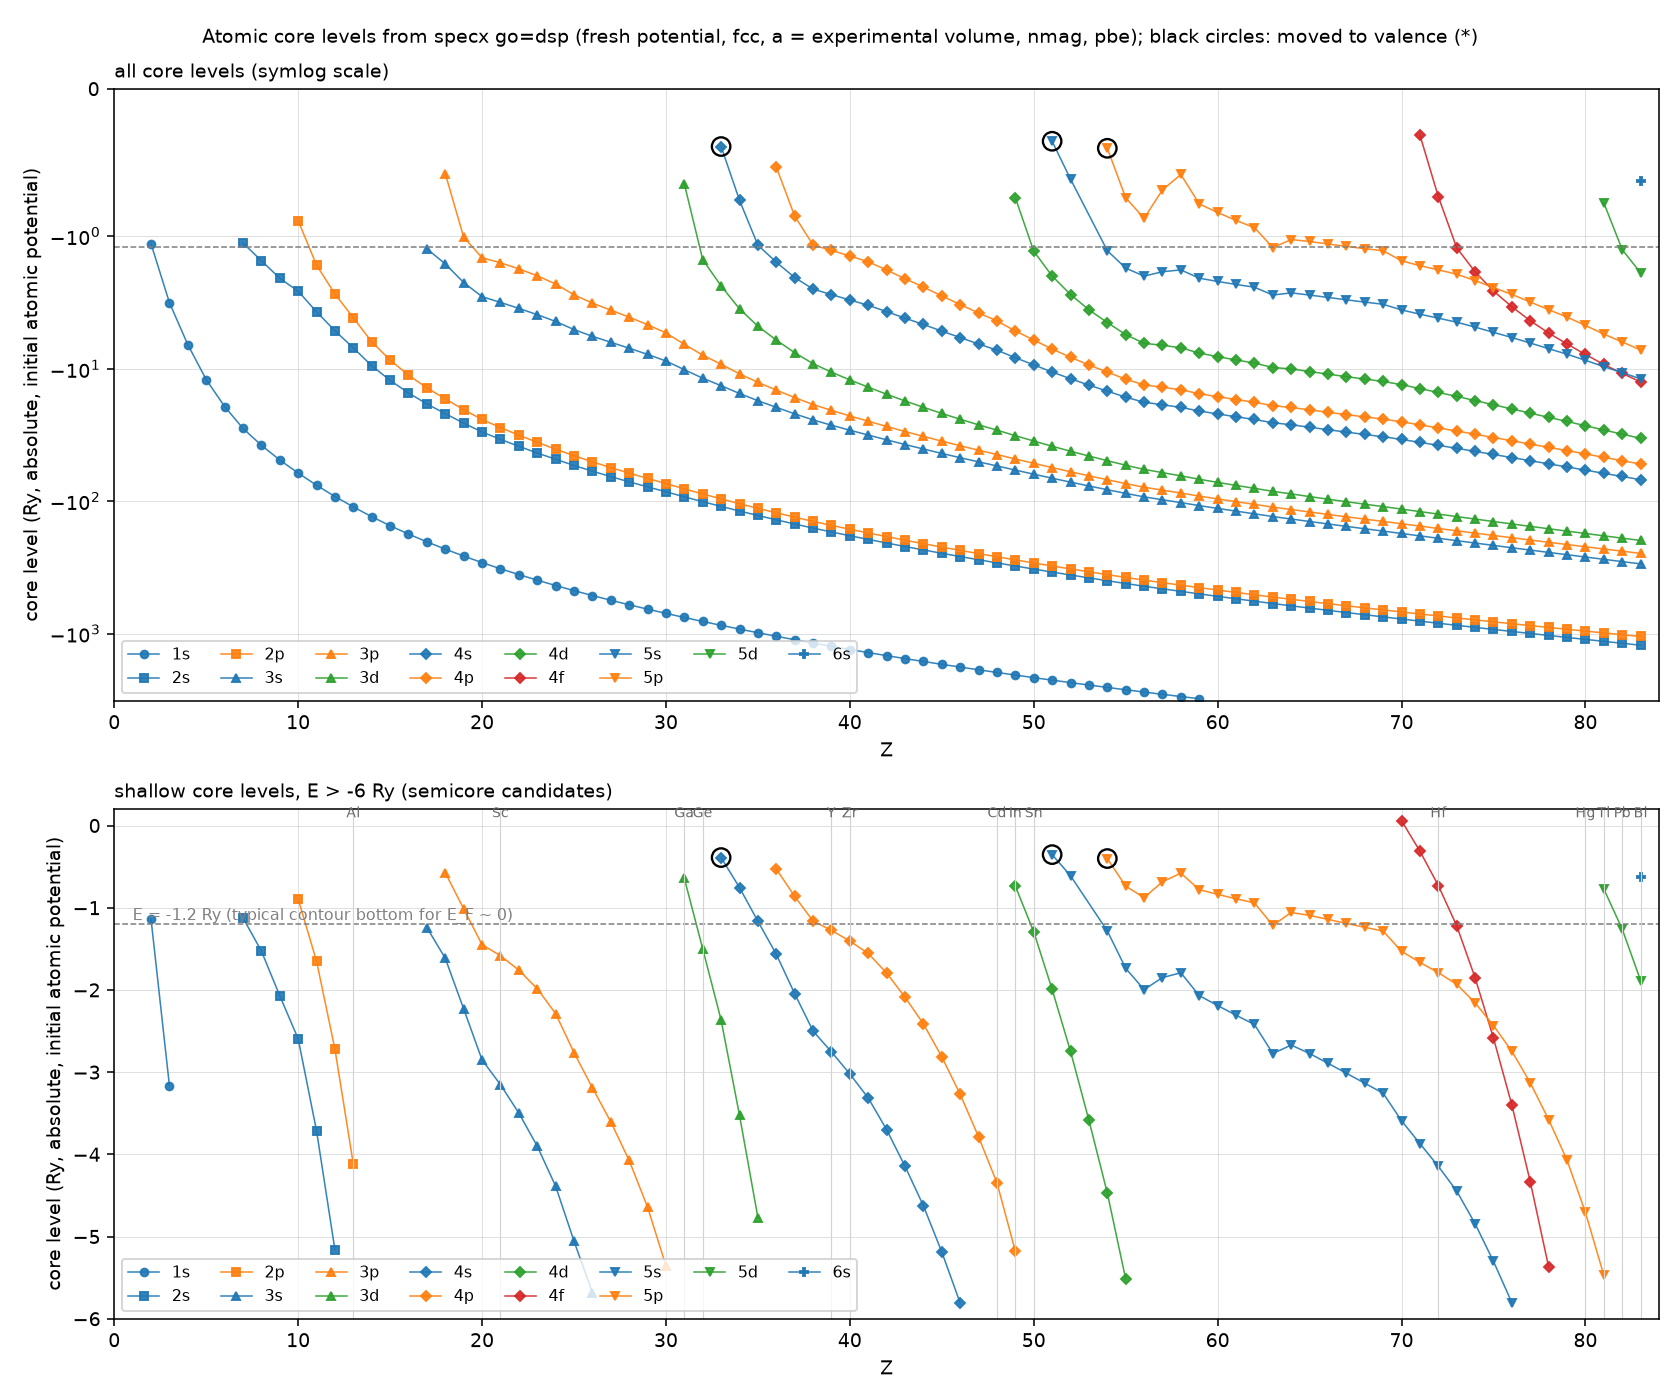
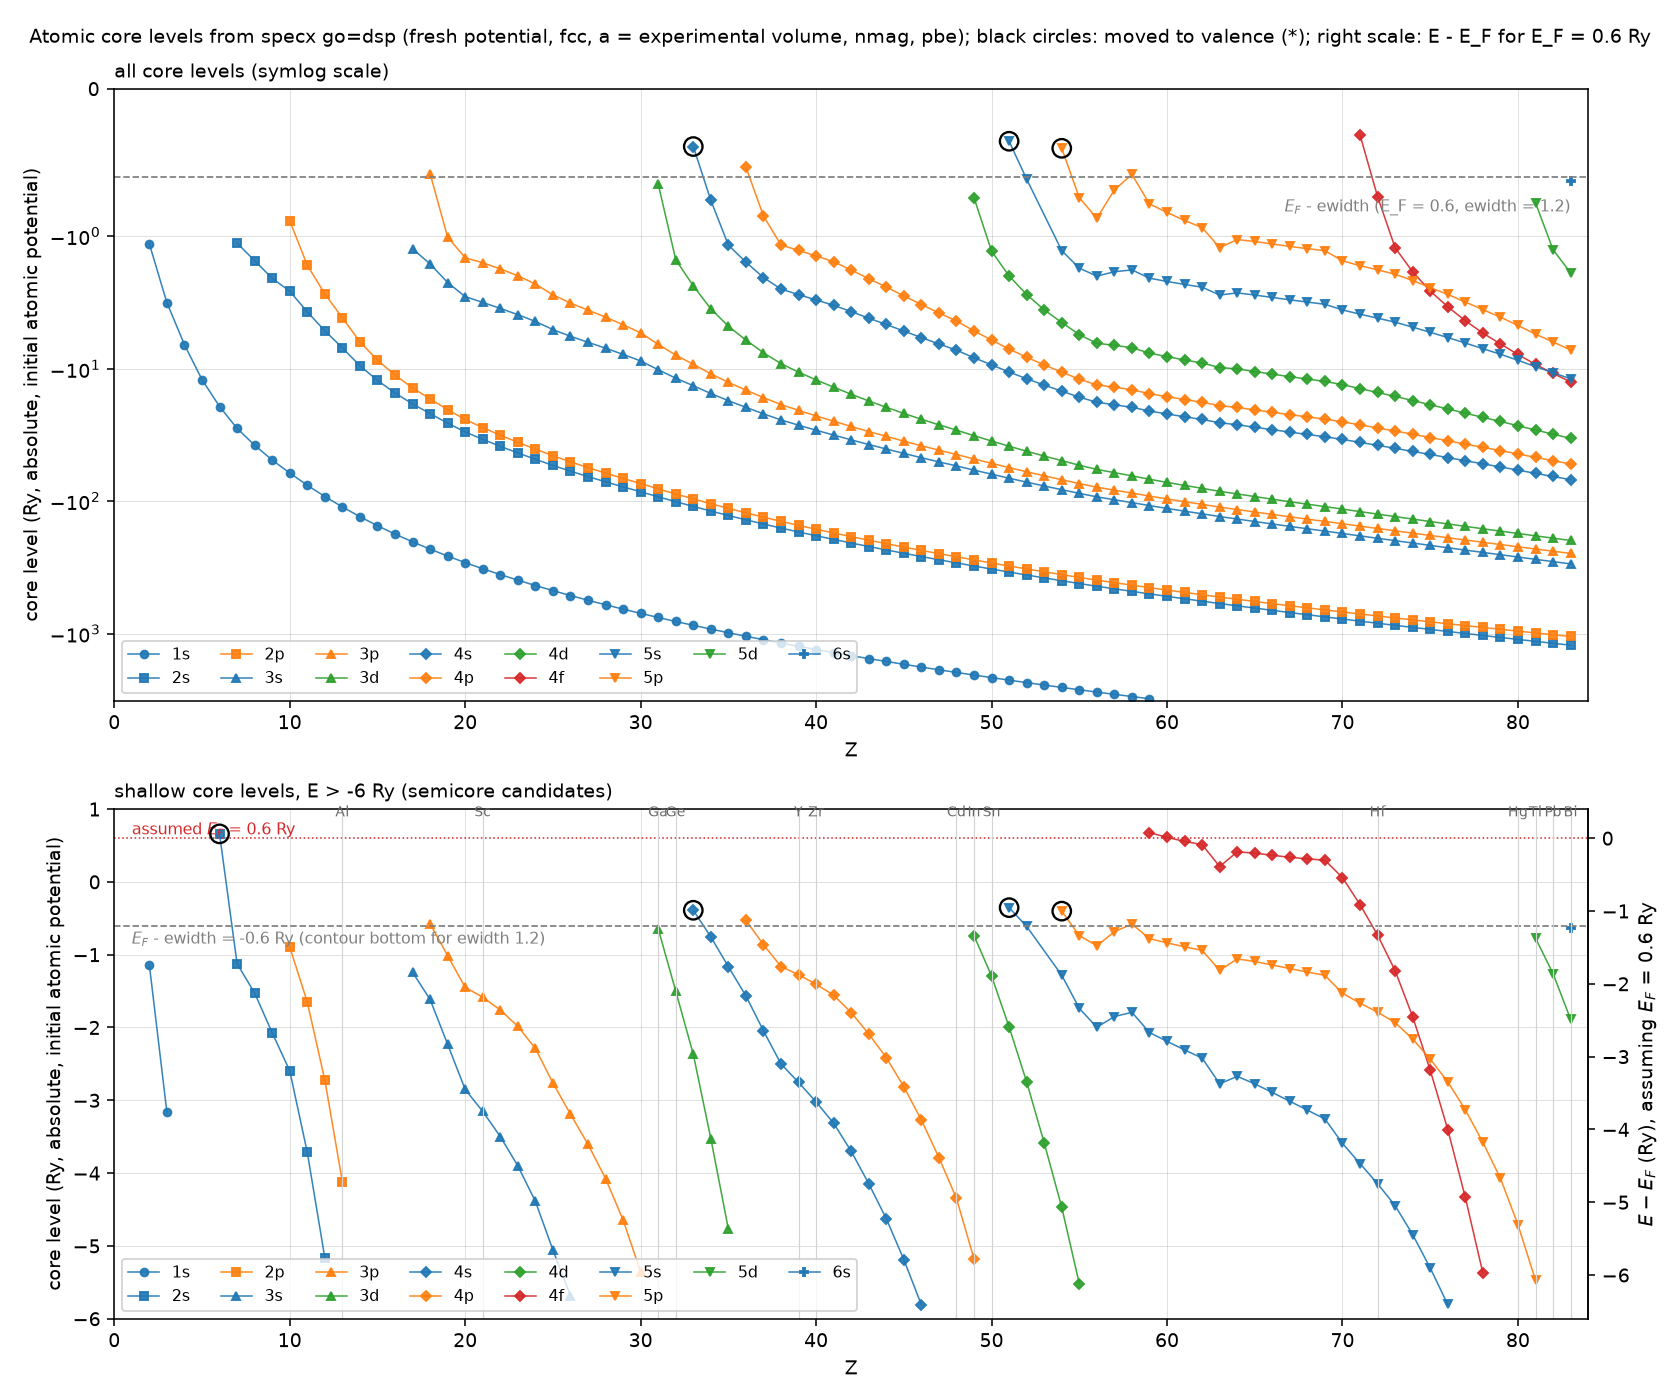
atomic core level figure: E - E_F scale (E_F = 0.6 Ry) on the right and the contour-bottom guide line

diff --git a/tests/gaes/tools/plot_atomic_levels.py b/tests/gaes/tools/plot_atomic_levels.py
@@ -19,14 +19,17 @@ def main():
     ap = argparse.ArgumentParser()
     ap.add_argument("csv")
     ap.add_argument("-o", "--output", default="atomic_core_levels_dsp.png")
+    ap.add_argument("--ef", type=float, default=0.6, help="assumed E_F (Ry, absolute) for the right-hand E - E_F scale")
+    ap.add_argument("--ewidth", type=float, default=1.2, help="ewidth of go for the contour-bottom guide line")
     a = ap.parse_args()
+    ef = a.ef
     rows = [r for r in csv.DictReader(open(a.csv)) if r["orbital"]]
     by = defaultdict(list)
     for r in rows:
         by[r["orbital"]].append((int(r["Z"]), float(r["energy_Ry"]), r["star"] == "1"))
     fig, axes = plt.subplots(2, 1, figsize=(12, 10), gridspec_kw={"height_ratios": [1.2, 1]})
     for ax, (lo, hi, scale, title) in zip(axes, ((-3200, 0, "symlog", "all core levels (symlog scale)"),
-                                                 (-6.0, 0.2, "linear", "shallow core levels, E > -6 Ry (semicore candidates)"))):
+                                                 (-6.0, 1.0, "linear", "shallow core levels, E > -6 Ry (semicore candidates)"))):
         for orb in ORDER:
             pts = [p for p in by.get(orb, []) if lo <= p[1] <= hi]
             if not pts:
@@ -46,15 +49,25 @@ def main():
         ax.set_ylabel("core level (Ry, absolute, initial atomic potential)")
         ax.set_title(title, loc="left", fontsize=10)
         ax.grid(True, lw=0.4, alpha=0.5)
-        ax.axhline(-1.2, color="gray", lw=0.8, ls="--")
+        ax.axhline(ef, color="tab:red", lw=0.8, ls=":")
+        ax.axhline(ef - a.ewidth, color="gray", lw=0.9, ls="--")
         ax.legend(ncol=8, fontsize=8, loc="lower left")
-    axes[1].text(1, -1.15, "E = -1.2 Ry (typical contour bottom for E_F ~ 0)", fontsize=8, color="gray")
+        if scale == "linear":
+            # right-hand scale: E - E_F for the assumed E_F (typical E_F of the test materials: 0.5-0.7 Ry)
+            ax2 = ax.secondary_yaxis("right", functions=(lambda e: e - ef, lambda x: x + ef))
+            ax2.set_ylabel("$E - E_F$ (Ry), assuming $E_F$ = %.1f Ry" % ef)
+        else:
+            ax.text(83, ef - a.ewidth - 0.15, "$E_F$ - ewidth (E_F = %.1f, ewidth = %.1f)" % (ef, a.ewidth),
+                    fontsize=8, color="gray", ha="right", va="top")
+    axes[1].text(1, ef + 0.05, "assumed $E_F$ = %.1f Ry" % ef, fontsize=8, color="tab:red")
+    axes[1].text(1, ef - a.ewidth - 0.25, "$E_F$ - ewidth = %.1f Ry (contour bottom for ewidth %.1f)" % (ef - a.ewidth, a.ewidth),
+                 fontsize=8, color="gray")
     for z, sym in ((13, "Al"), (21, "Sc"), (31, "Ga"), (32, "Ge"), (39, "Y"), (40, "Zr"), (48, "Cd"), (49, "In"), (50, "Sn"),
                    (72, "Hf"), (80, "Hg"), (81, "Tl"), (82, "Pb"), (83, "Bi")):
         axes[1].axvline(z, color="lightgray", lw=0.6)
-        axes[1].text(z, 0.1, sym, fontsize=7, ha="center", color="dimgray")
+        axes[1].text(z, 0.9, sym, fontsize=7, ha="center", color="dimgray")
     fig.suptitle("Atomic core levels from specx go=dsp (fresh potential, fcc, a = experimental volume, nmag, pbe); "
-                 "black circles: moved to valence (*)", fontsize=10)
+                 "black circles: moved to valence (*); right scale: E - E_F for E_F = %.1f Ry" % ef, fontsize=10)
     fig.tight_layout()
     fig.savefig(a.output, dpi=140)
     print("saved", a.output)
